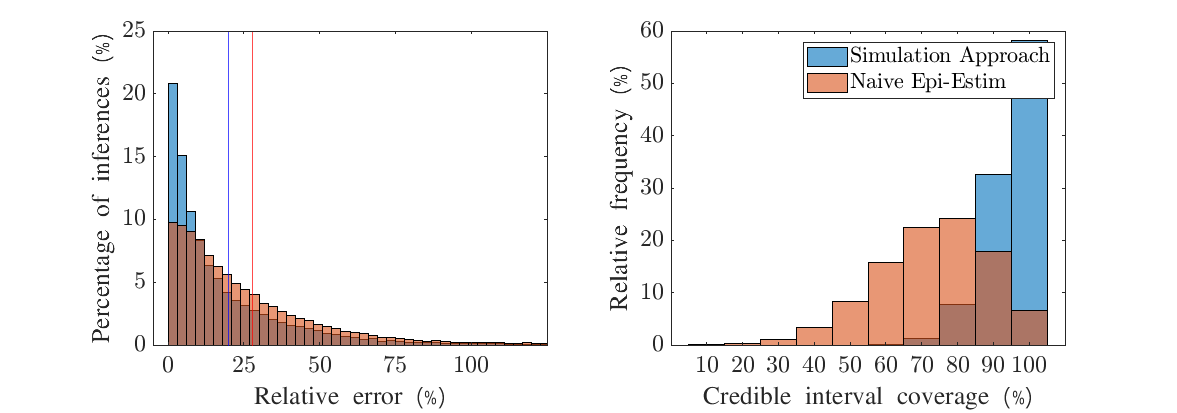
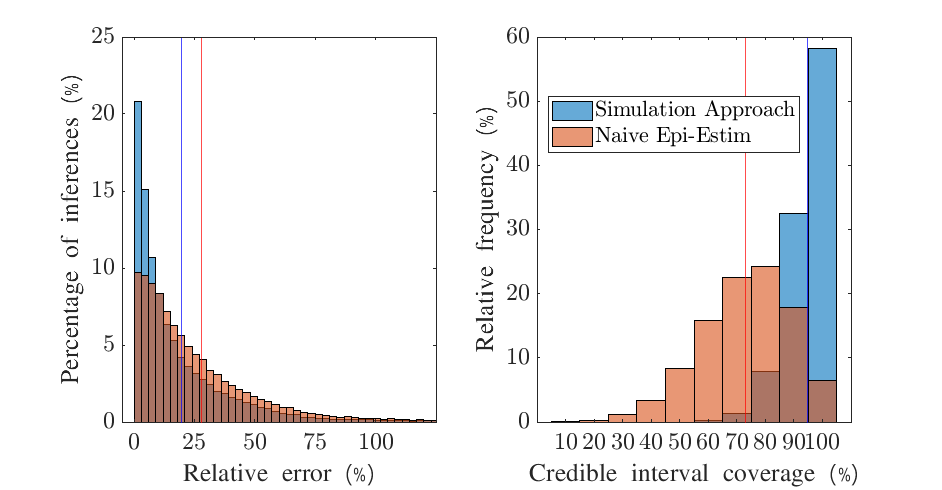
pre meeting

diff --git a/MATLAB/largeScaleAnalysis.m b/MATLAB/largeScaleAnalysis.m
@@ -222,6 +222,8 @@ hold on
 histogram(coverageBySimNaiveEE, 'Normalization', 'probability')
 yticks(0:0.1:0.6)
 yticklabels({'0', '10', '20', '30', '40', '50', '60'})
+xline(mean(coverageBySim), 'blue')
+xline(mean(coverageBySimNaiveEE), 'red')
 
 xticks(1:10)
 xticklabels({'10', '20', '30', '40', '50', '60', '70', '80', '90', '100'})

diff --git a/README.md b/README.md
@@ -18,9 +18,10 @@ $M$: Sample threshold in ABC algorithm
 
 Our project is broken down into 3 main sections (with main message in brackets):
 
-# 1. Simple single study and large study (fixing true incidence) to show inference works (lower errors than Naive EE, correct coverage, robust for $M=10^5$) 
-# 2. Same large study  but stratified by $\rho$ (improving reporting leads to greater confidence in $R_t$ inference wrt credible intervals and mean error)
-# 3. Real world data-set from an Ebola outbreak (in general, assuming higher $\rho$ leads to wider credible intervals)
+# 1. Simple single study and large study (fixing true incidence) to show inference works (lower errors than Naive EE, correct coverage, robust for $M=10^5$)
+# 2. Real world data set demonstrating that our method is a faster, more practical way of achieving desired inference.
+# 3. Same large study  but stratified by $\rho$ (improving reporting leads to greater confidence in $R_t$ inference wrt credible intervals and mean error)
+# 4. Real world data-set from an Ebola outbreak (showing that higher $\rho$ leads to narrower credible intervals but with RWD)
 
 Key concept: Coefficient of variation, $CV = \sigma/\mu$.
 
@@ -33,15 +34,17 @@ Key concept: Coefficient of variation, $CV = \sigma/\mu$.
 + We may need to qualify the significance of this distribution and the mean error. I have tried to do this by repeating the inference again but using a Naive Epi-Estim approach. DONE
 + Use real-world data-set to infer $R_t$ but now assuming different values of $\rho$. What does this do to $R_t$ inference (mean and credible intervals). DONE.
 
-## Still to do:
+## Still to do (analysis):
 
 + Comparing our method with long-way of computing Rt. Currently running on cluster.
++ Re-run analyses for
+  + $\rho = 0.3-0.9$?
+  + Incidence generated a different way? Although now we have all simulated data-sets from same method (Gam(1,3) prior)
+  + Entire Ebola data-set (took off 27 weeks)
+  + Generating data with what value of P? Have assumed 7 so far.
 
-## Manuscript draft
 
-+ Skeleton paragraphs.
-
-## Section 1. Checking inference is accurate, precise and robust.
+## Section 1. Checking inference is accurate, approppriately covered(?) and robust.
 
 We look at two case studies. Firstly, we look at a realistic outbreak. Secondly, we simulate a large number of epidemics, where the true $R_t$ values are sampled from the same gamma distribution that informs our prior.
 
@@ -51,7 +54,7 @@ We look at two case studies. Firstly, we look at a realistic outbreak. Secondly,
 
 ![fig2](figs/sectionBasicInference/mainFigureBasicInference.png)
 
-*Fig 2: Large scale study showing our inference is both more precise and more accurate than EE*
+*Fig 2: Large scale study showing our inference is both more precise and more accurate than EE. Mean errors are 19.8% vs 27.8% and mean coverages are *
 
 ![fig3](figs/sectionRobustness/mainRobustness.png)
 
@@ -59,13 +62,15 @@ We look at two case studies. Firstly, we look at a realistic outbreak. Secondly,
 
 ## Section 2. Inference is comparable to implementing previous method over large range of possible true incidence (RWD)
 
-Pending cluster computation
+Pending cluster computation. Idea: Reverse binomial sample (for each reported incidence of Ebola data) back to true incidence 1000 times. Then use old method to infer $R_t$. This inference (taking means of means and means of credible intervals) should then by identical to our inference (by eye).
 
 ## Section 3. Increasing $\rho$ leads to more accurate inference with appropriate coverage
 
 ![fig4](figs/sectionEffectOfRho/increasingRhoIsGood.png)
 
 *Fig 4: Demo that increasing reporting rate leads to smaller errors and narrower credible intervals*
+
+NB: We go back to simulated data here. Could this order be confusing for the reader? We have to decide between ordering sections by data-sets or ordering sections by principles of inference and then point about increasing $\rho$.
 
 ## Section 4. Verification that increasing $\rho$ leads to narrower credible intervals
 
